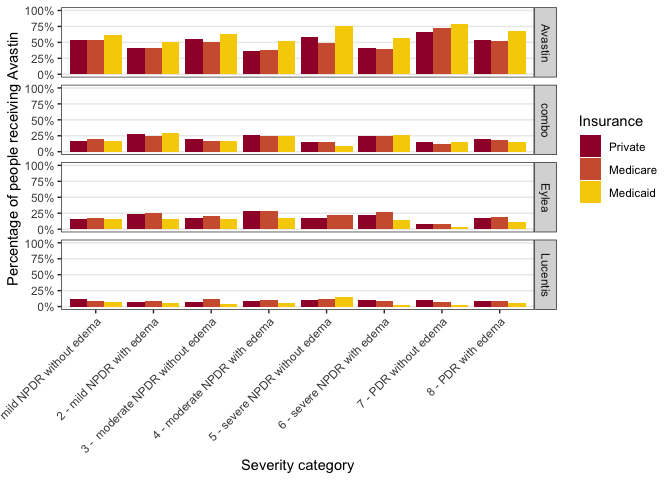
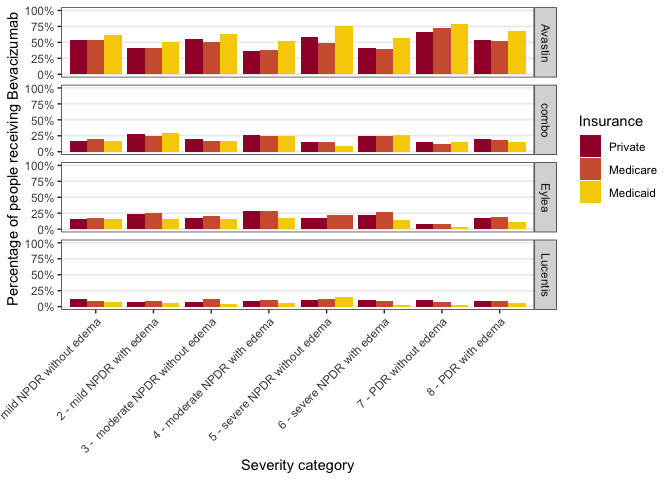
fix graphs for poster

Changed region(s): [[0.0, 0.0312, 0.0312, 0.6562]]

diff --git a/DR_Project_Git/DR_Analysis_Main.md b/DR_Project_Git/DR_Analysis_Main.md
@@ -545,8 +545,9 @@ drug_sev_cat_race %>%
     ## # … with 98 more rows
 
 ``` r
-# Graphing likelihood of Avastin by severity and race
-drug_sev_cat_race %>% 
+# Graphing likelihood of Bevacizumab by severity and race
+plot_drug_sev_cat_race <-
+  drug_sev_cat_race %>% 
   # remove individuals with no vision category
   filter(!is.na(vision_category), !vision_category %in% c("NA")) %>% 
   # remove combo, Eylea, and Lucentis for this graph
@@ -568,12 +569,18 @@ drug_sev_cat_race %>%
   scale_fill_manual(values = race_colors) +
   labs(
     x = "Severity category",
-    y = "Percentage of people receiving Avastin",
+    y = "Percentage of eyes receiving Bevacizumab",
     fill = "Race"
   )
+
+plot_drug_sev_cat_race
 ```
 
 ![](DR_Analysis_Main_files/figure-gfm/unnamed-chunk-14-1.png)<!-- -->
+
+``` r
+#ggsave("graphs/plot_drug_sev_cat_race.png", plot_drug_sev_cat_race, width = 10, height = 5)
+```
 
 ``` r
 # Calculate likelihood of drug by severity score and insurance (given that patient received antivegf treatment)
@@ -630,7 +637,7 @@ drug_sev_cat_insurance %>%
   scale_fill_manual(values = insurance_colors) +
   labs(
     x = "Severity category",
-    y = "Percentage of people receiving Avastin",
+    y = "Percentage of people receiving Bevacizumab",
     fill = "Insurance"
   )
 ```
@@ -766,7 +773,7 @@ summary(avastin_1.logm)
 ## Supplement: Differences in Rates of Bevacizumab, Aflibercept, and Ranibizumab Injection by Severity Category, Race and Insurance Status
 
 ``` r
-# Graphing likelihood of Avastin by severity and race
+# Graphing likelihood of Bevacizumab by severity and race
 drug_sev_cat_race %>% 
   # remove individuals with no vision category
   filter(!is.na(vision_category), !vision_category %in% c("NA")) %>% 
@@ -787,7 +794,7 @@ drug_sev_cat_race %>%
   scale_fill_manual(values = race_colors) +
   labs(
     x = "Severity category",
-    y = "Percentage of people receiving Avastin",
+    y = "Percentage of people receiving Bevacizumab",
     fill = "Race"
   )
 ```
@@ -816,7 +823,7 @@ drug_sev_cat_insurance %>%
   scale_fill_manual(values = insurance_colors) +
   labs(
     x = "Severity category",
-    y = "Percentage of people receiving Avastin",
+    y = "Percentage of people receiving Bevacizumab",
     fill = "Insurance"
   )
 ```
@@ -909,9 +916,17 @@ va_race_diff <-
     baseline = 0
   ) %>% 
   gather(key = "time_diff", value = "va_change", baseline, one_year_change, two_year_change) %>% 
+  mutate(
+    time_diff = case_when(
+      time_diff == "baseline" ~ "Baseline",
+      time_diff == "one_year_change" ~ "One year",
+      time_diff == "two_year_change" ~ "Two years"
+    )
+  ) %>% 
   ungroup()
 
-va_race_diff %>% 
+plot_va_race_diff <- 
+  va_race_diff %>% 
   ggplot(aes(x = time_diff, y = va_change, color = race_ethnicity)) +
   geom_point() +
   geom_line(aes(group = race_ethnicity)) +
@@ -920,15 +935,35 @@ va_race_diff %>%
   #   aes(label = count)
   # ) +
   theme_light() +
+  theme(
+    panel.grid.minor.x = element_blank(),
+    panel.grid.major.x = element_blank(),
+    legend.position = "bottom",
+    #legend.spacing.x = unit(1.0, "cm")
+    legend.margin = margin(c(5, 5, 5, 0)),
+    legend.text = element_text(margin = margin(r = 10, unit = "pt"))
+  ) +
   scale_color_manual(values = race_colors) +
   labs(
-    x = "Time point",
-    y = "Change in visual acuity",
+    x = "",
+    y = "Change in visual acuity (VA)",
     color = "Race"
-  )
+  ) 
+  # guides(
+  #   fill = guide_legend(
+  #     label.position = "top",
+  #     #title.position = "left", 
+  #   )
+  # )
+
+plot_va_race_diff
 ```
 
 ![](DR_Analysis_Main_files/figure-gfm/unnamed-chunk-22-1.png)<!-- -->
+
+``` r
+#ggsave("graphs/plot_va_race_diff.png", plot_va_race_diff, width = 7, height = 5)
+```
 
 ## Figure 4A, 4B, 4C: Visual Acuity Change from Baseline at One and Two Years, by Insurance and Race
 
@@ -998,6 +1033,13 @@ va_insurance_diff <-
     baseline = 0
   ) %>% 
   gather(key = "time_diff", value = "va_change", baseline, one_year_change, two_year_change) %>% 
+  mutate(
+    time_diff = case_when(
+      time_diff == "baseline" ~ "Baseline",
+      time_diff == "one_year_change" ~ "One year",
+      time_diff == "two_year_change" ~ "Two years"
+    )
+  ) %>% 
   ungroup()
 
 va_insurance_diff %>% 
@@ -1010,7 +1052,7 @@ va_insurance_diff %>%
   # ) +
   theme_light() + 
   theme(
-    panel.grid.minor = element_blank(),
+    panel.grid.minor.x = element_blank(),
     panel.grid.major.x = element_blank()
   ) +
   scale_color_manual(values = insurance_colors) +
@@ -2976,7 +3018,7 @@ and 2-5% more likely to receive Eylea treatment (first) as compared to
 Black people at the same level of severity.
 
 ``` r
-# Graphing likelihood of Avastin as first treatment by severity and race
+# Graphing likelihood of Bevacizumab as first treatment by severity and race
 drug_sev_race %>% 
   filter(!race_ethnicity %in% c("Unknown", "Other")) %>% 
   filter(severity_score < 50) %>% 
@@ -2987,17 +3029,18 @@ drug_sev_race %>%
   theme_bw() +
   scale_y_continuous(labels = scales::percent) +
   labs(
-    title = "Likelihood of receiving Avastin at higher severity score by race",
-    y = "Percentage of people receiving Avastin"
+    title = "Likelihood of receiving Bevacizumab at higher severity score by race",
+    y = "Percentage of people receiving Bevacizumab"
   )
 ```
 
 ![](DR_Analysis_Main_files/figure-gfm/unnamed-chunk-90-1.png)<!-- -->
 
 At lower levels of severity, Hispanic people are far more likely
-(15-25%) to receive Avastin as compared to their Caucasian counterparts
-with the same level of severity. Black and Asian people seem somewhat
-more likely to receive Avastin, but there is some variation.
+(15-25%) to receive Bevacizumab as compared to their Caucasian
+counterparts with the same level of severity. Black and Asian people
+seem somewhat more likely to receive Bevacizumab, but there is some
+variation.
 
 #### Likelihood of drug received by severity score CATEGORY and race (given that patient recieved anti-vegf treatment)
 
@@ -3072,7 +3115,7 @@ drug_sev_cat_race %>%
 ![](DR_Analysis_Main_files/figure-gfm/unnamed-chunk-93-1.png)<!-- -->
 
 ``` r
-# Graphing likelihood of Avastin as first treatment by severity and race
+# Graphing likelihood of Bevacizumab as first treatment by severity and race
 drug_sev_cat_race %>% 
   filter(!is.na(vision_category)) %>% 
   filter(vegf_group_365 == "Avastin") %>% 
@@ -3082,8 +3125,8 @@ drug_sev_cat_race %>%
   theme_bw() +
   scale_y_continuous(labels = scales::percent) +
   labs(
-    title = "Likelihood of receiving Avastin at higher vision_category by race",
-    y = "Percentage of people receiving Avastin"
+    title = "Likelihood of receiving Bevacizumab at higher vision_category by race",
+    y = "Percentage of people receiving Bevacizumab"
   )
 ```
 
@@ -3217,7 +3260,7 @@ drug_sev_cat_insurance %>%
 ![](DR_Analysis_Main_files/figure-gfm/unnamed-chunk-99-1.png)<!-- -->
 
 ``` r
-# Graphing likelihood of Avastin as first treatment by severity and insurance
+# Graphing likelihood of Bevacizumab as first treatment by severity and insurance
 drug_sev_cat_insurance %>% 
   filter(!is.na(vision_category)) %>% 
   filter(vegf_group_365 == "Avastin") %>% 
@@ -3228,8 +3271,8 @@ drug_sev_cat_insurance %>%
   theme(axis.text.x = element_text(angle = 90, vjust = 0.5, hjust=1)) +
   scale_y_continuous(labels = scales::percent) +
   labs(
-    title = "Likelihood of receiving Avastin at higher vision_category by race",
-    y = "Percentage of people receiving Avastin"
+    title = "Likelihood of receiving Bevacizumab at higher vision_category by race",
+    y = "Percentage of people receiving Bevacizumab"
   )
 ```
 
